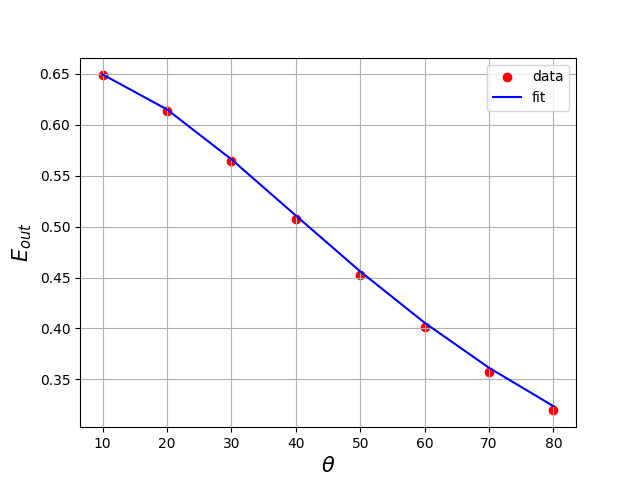
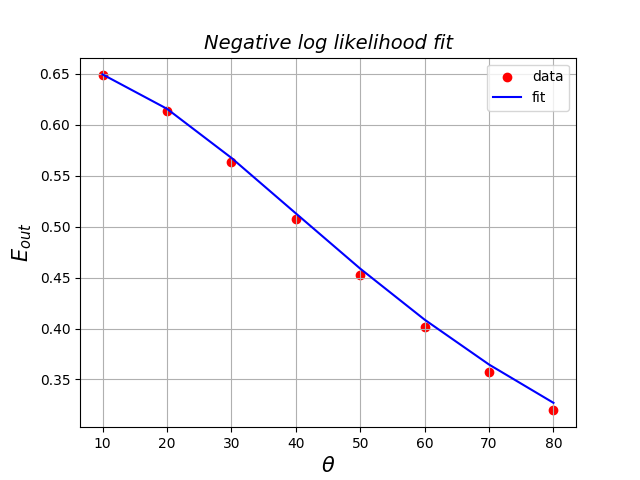
last fix

diff --git a/save.py b/save.py
@@ -1,7 +1,7 @@
 import numpy as np
 import matplotlib.pyplot as plt
-from scipy.optimize import minimize, curve_fit
-from scipy.stats import norm, gaussian_kde
+from scipy.optimize import minimize
+from scipy.stats import norm
 
 # set a seed
 np.random.seed(42)
@@ -11,7 +11,7 @@ np.random.seed(42)
 theta_list = np.arange(10, 90, 10)
 
 # define a function that calculates the energy output with fluctuations
-def E_out_fluctuated(mc2, theta):
+def E_out_fluctuated(mc2, theta, a):
     """
     :param theta: angle in degrees
     :param mc2: mass of the electron in MeV
@@ -21,12 +21,12 @@ def E_out_fluctuated(mc2, theta):
     E_in = 0.6617
     denominator = 1 + (E_in / mc2) * (1 - np.cos(np.deg2rad(theta)))
     E_out = E_in / denominator
-    return E_out
+    return E_out + a
 
 
 # calculate the true energy for each angle in the list
 mc2_wiki = 0.510998
-energy_calculated = [E_out_fluctuated(mc2_wiki, angle) for angle in theta_list]
+energy_calculated = [E_out_fluctuated(mc2_wiki, angle, a=0) for angle in theta_list]
 
 # create a list with fluctuations in energy
 energy_fluctuation = np.random.normal(0, 0.01, size=len(theta_list))
@@ -42,7 +42,7 @@ plt.xlabel(r"$\theta$", fontsize=15)
 plt.ylabel(r"$E_{out}$", fontsize=15)
 plt.legend()
 plt.grid()
-plt.title("True energy vs simulated energy", fontsize=14, fontstyle='italic')
+plt.title("True energy vs simulated energy")
 # plt.show()
 plt.savefig("True_energy_vs_simulated_energy.png")
 plt.clf()
@@ -50,8 +50,8 @@ plt.clf()
 
 # define the negative log-likelihood function
 def neg_log_likelihood(params, energy_simulated, scale):
-    mc2 = params
-    energy_calculated = E_out_fluctuated(mc2, theta_list)
+    mc2, a = params
+    energy_calculated = E_out_fluctuated(mc2, theta_list, a)
     log_likelihood = np.sum(norm.logpdf(energy_simulated, loc=energy_calculated, scale=scale))
     return -log_likelihood
 
@@ -60,7 +60,7 @@ def neg_log_likelihood(params, energy_simulated, scale):
 scale = 0.01
 
 # perform the maximum likelihood fit
-result = minimize(neg_log_likelihood, x0=np.array([0.5]), args=(energy_simulated, scale))
+result = minimize(neg_log_likelihood, np.array([0.510998, 0]), args=(energy_simulated, scale))
 
 # retrieve the value of mc2
 mc2 = result.x[0]
@@ -73,12 +73,11 @@ print("The value of mc2 is:", mc2)
 # plot the negative log-likelihood function
 plt.figure()
 plt.scatter(theta_list, energy_calculated, label='data', color='r')
-plt.plot(theta_list, E_out_fluctuated(mc2, theta_list), label='fit', color='b')
+plt.plot(theta_list, E_out_fluctuated(mc2, theta_list, a=0), label='fit', color='b')
 plt.xlabel(r"$\theta$", fontsize=15)
 plt.ylabel(r"$E_{out}$", fontsize=15)
 plt.legend()
 plt.grid()
-plt.title("Negative log likelihood fit", fontsize=14, fontstyle='italic')
 # plt.show()
 plt.savefig("E_out_fit.png")
 plt.clf()
@@ -107,11 +106,11 @@ def simulate_likelihood(sigma):
         # create a list with fluctuations in energy
         energy_fluctuation = np.random.normal(0, sigma, size=len(theta_list))
         # calculate the true energy for each angle in the list
-        energy_calculated = [E_out_fluctuated(mc2_wiki, angle) for angle in theta_list]
+        energy_calculated = [E_out_fluctuated(mc2_wiki, angle, a=0) for angle in theta_list]
         # add the fluctuations to the true energy
         energy_simulated = np.add(energy_calculated, energy_fluctuation)
         # perform the maximum likelihood fit
-        result = minimize(neg_log_likelihood, np.array([0.5]), args=(energy_simulated, scale))
+        result = minimize(neg_log_likelihood, np.array([0.5, 0]), args=(energy_simulated, scale))
         # retrieve the value of mc2
         mc2 = result.x[0]
         # add the result to the list
@@ -123,14 +122,14 @@ def simulate_likelihood(sigma):
     print("The mean of the mc2 values is:", np.mean(mc2_list))
     print("The standard deviation of the mc2 values is:", np.std(mc2_list))
     # plot the results as a histograms
-    plt.figure(figsize=(8, 6))  # adjust the figure size if needed
-    plt.hist(mc2_list, bins=30, color='navy', alpha=0.8)  # set color and transparency
-    plt.axvline(np.mean(mc2_list), color='red', linestyle='--')  # add a line for the mean value
-    plt.xlabel("mc2", fontsize=12)  # adjust font size and style
-    plt.ylabel("frequency", fontsize=12)
-    plt.title("Histogram of mc2 values with sigma = " + str(sigma), fontsize=14, fontstyle='italic')
-    plt.grid(axis='y')  # only show gridlines on the y-axis
-    plt.savefig("Histogram_of_mc2_values_sigma_" + str(sigma) + ".png", dpi=300)  # increase dpi for higher quality
+    plt.figure()
+    plt.hist(mc2_list, bins=30)
+    plt.xlabel("mc2")
+    plt.ylabel("frequency")
+    plt.grid()
+    plt.title("Histogram of mc2 values with sigma = " + str(sigma))
+    # plt.show()
+    plt.savefig("Histogram_of_mc2_values_sigma_"+str(sigma)+".png")
     plt.clf()
 
     # calculate the pull
@@ -142,14 +141,13 @@ def simulate_likelihood(sigma):
     print("The standard deviation of the pull is:", np.std(pull_list))
     # plot the pull as a histogram
     plt.figure()
-    plt.hist(pull_list, bins=30, color='navy', alpha=0.8) # set color and transparency
-    plt.axvline(np.mean(pull_list), color='red', linestyle='--')  # add a line for the mean value
-    plt.xlabel("pull", fontsize=12)  # adjust font size and style
-    plt.ylabel("frequency", fontsize=12)
-    plt.grid(axis='y')
-    plt.title("Histogram of pull values with sigma = " + str(sigma), fontsize=14, fontstyle='italic')
+    plt.hist(pull_list, bins=30)
+    plt.xlabel("pull")
+    plt.ylabel("frequency")
+    plt.grid()
+    plt.title("Histogram of pull values with sigma = " + str(sigma))
     # plt.show()
-    plt.savefig("Histogram_of_pull_values_sigma"+str(sigma)+".png", dpi=300)
+    plt.savefig("Histogram_of_pull_values_sigma"+str(sigma)+".png")
     plt.clf()
 
 
